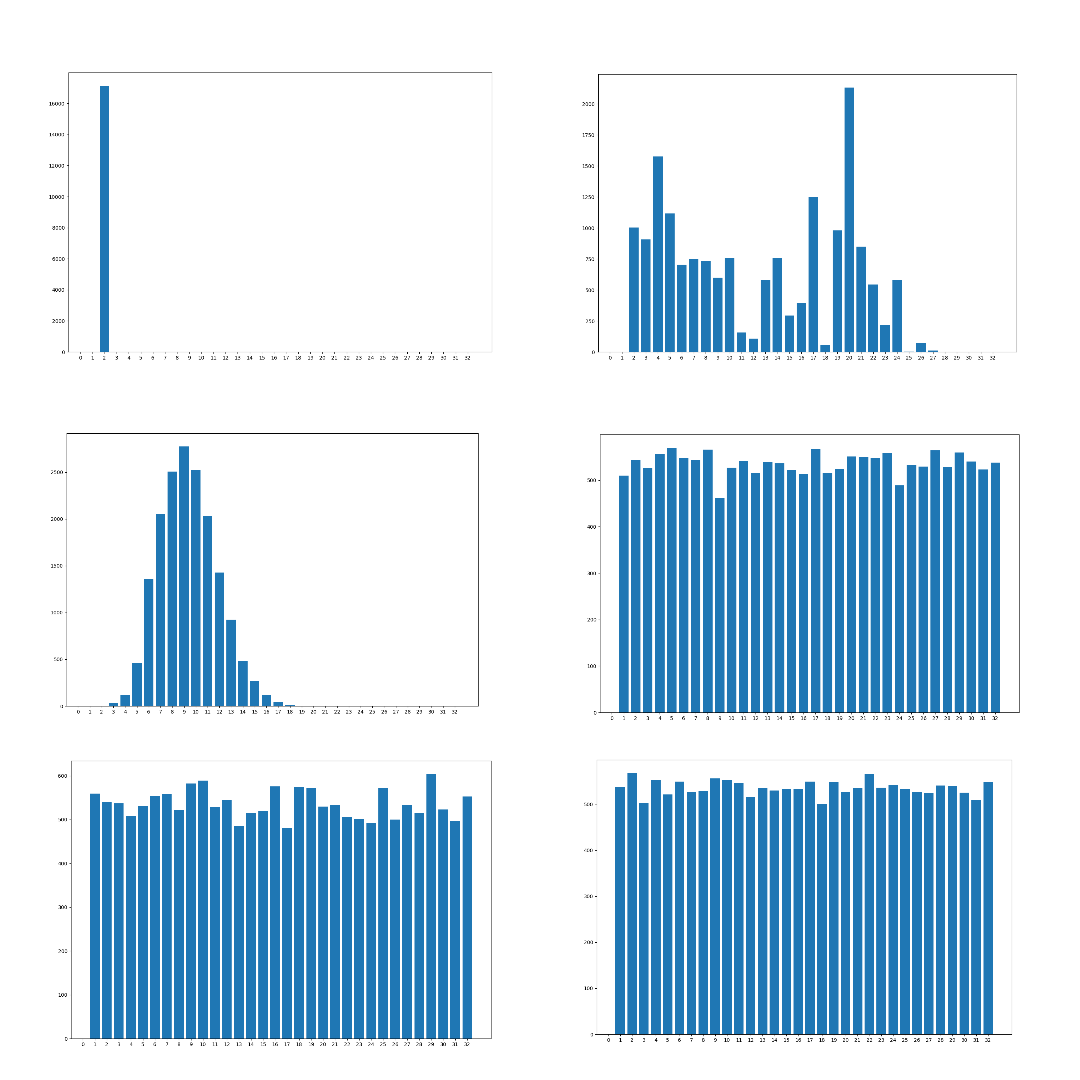
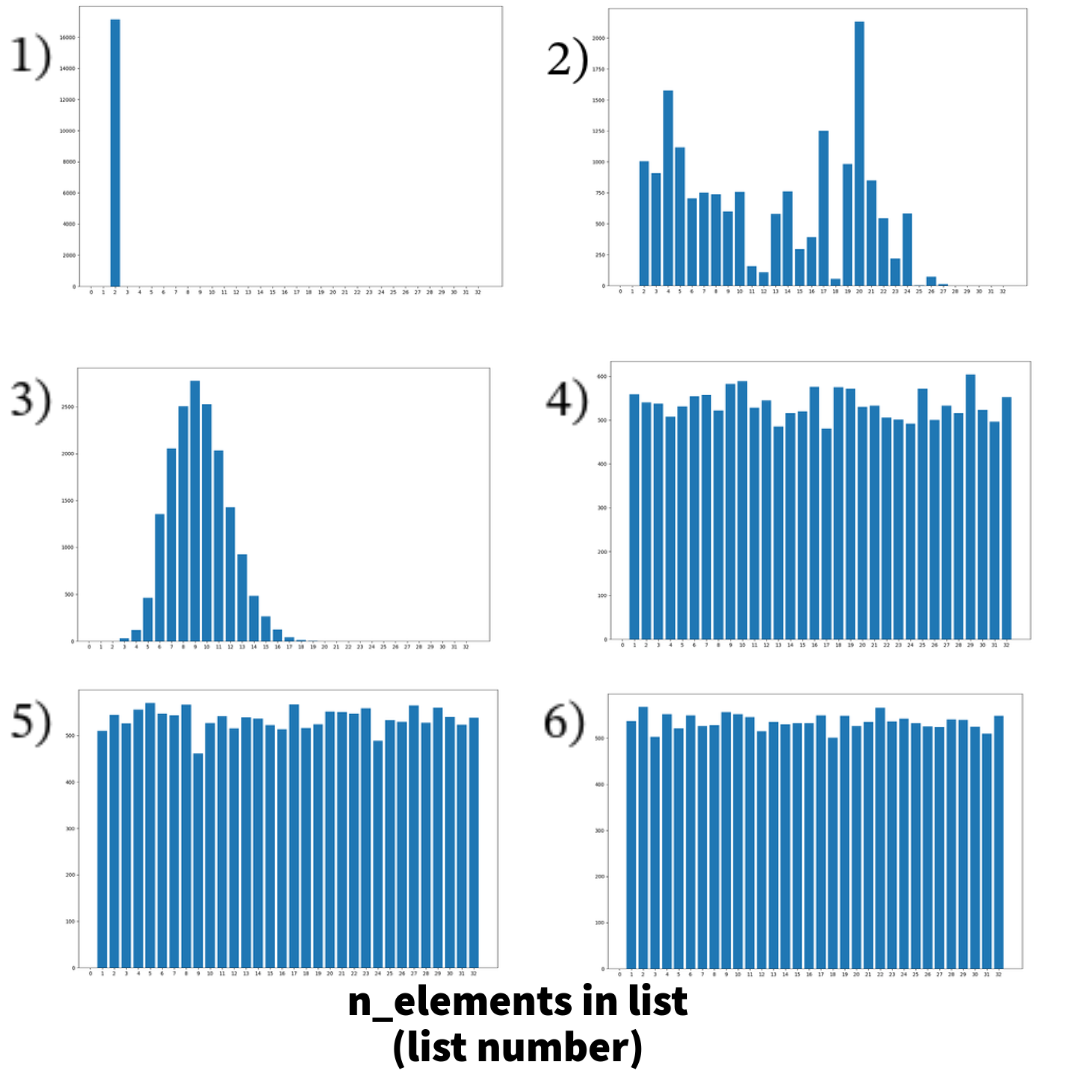
Eddited README and graphs

diff --git a/README.md b/README.md
@@ -17,18 +17,20 @@ A hashtable or hash map is a data structure that implements an associative array
 
 We have 6 hash-functions for comparison:
 
-Func       | Description
-------------- | -------------
-one        | hash = 1
-ascii      | hash = word[0]
-ascii_sum  | hash = word[0] + ... + word[n]
-length     | hash = strlen(word)
-rol        | for i in strlen(word) hash = rol(hash) ^ word[i]
-crc32      | ...
+Number |    Func    | Description
+-------|----------- | -------------
+ 1 | one            | hash = 1
+ 2 | ascii          | hash = word[0]
+ 3 | length         | hash = strlen(word)
+ 4 | ascii_sum      | hash = word[0] + ... + word[n]
+ 5 | rol            | for i in strlen(word) hash = rol(hash) ^ word[i]
+ 6 | crc32          | ...
+
+Element distribution for each function is on the graph (y - number of elements in list, x - list number):
 
 ![Alt graphs](https://github.com/XelerT/hashtable/blob/main/imgs/graphs.png)
 
-After analizing graphs, we can say that ascii_sum, rol, crc32 can be used as hash-functions.
+After analyzing graphs, we can say that ascii_sum, rol, crc32 can be used as hash-functions.
 
 >**Note:** Tests were done using hashtable size equals 32.
 
